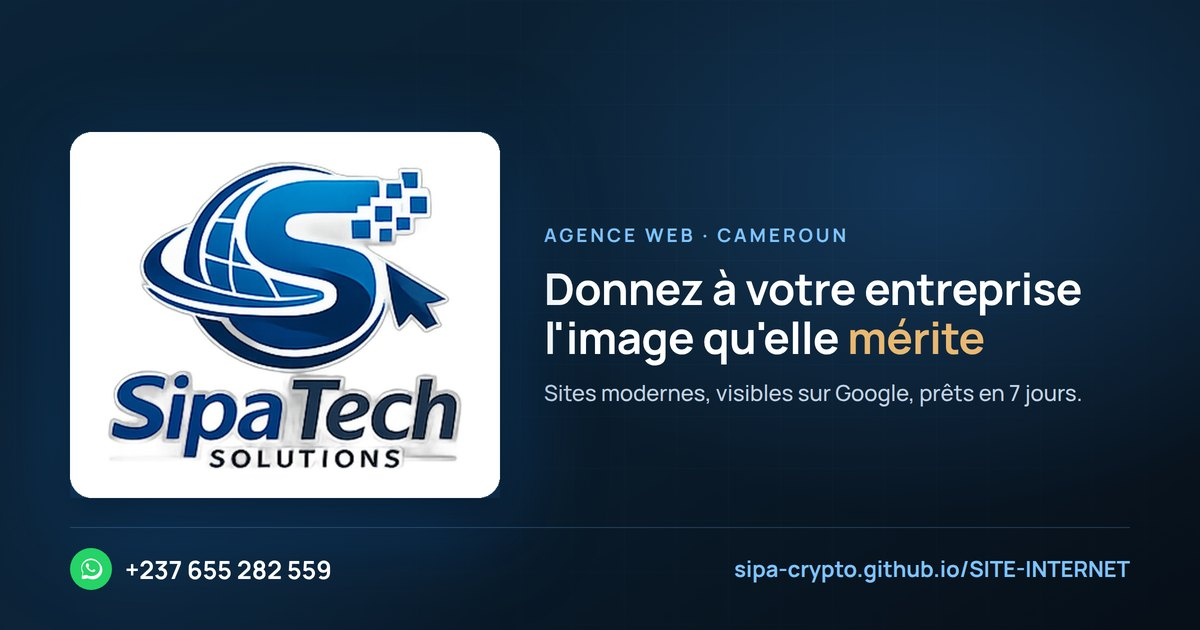
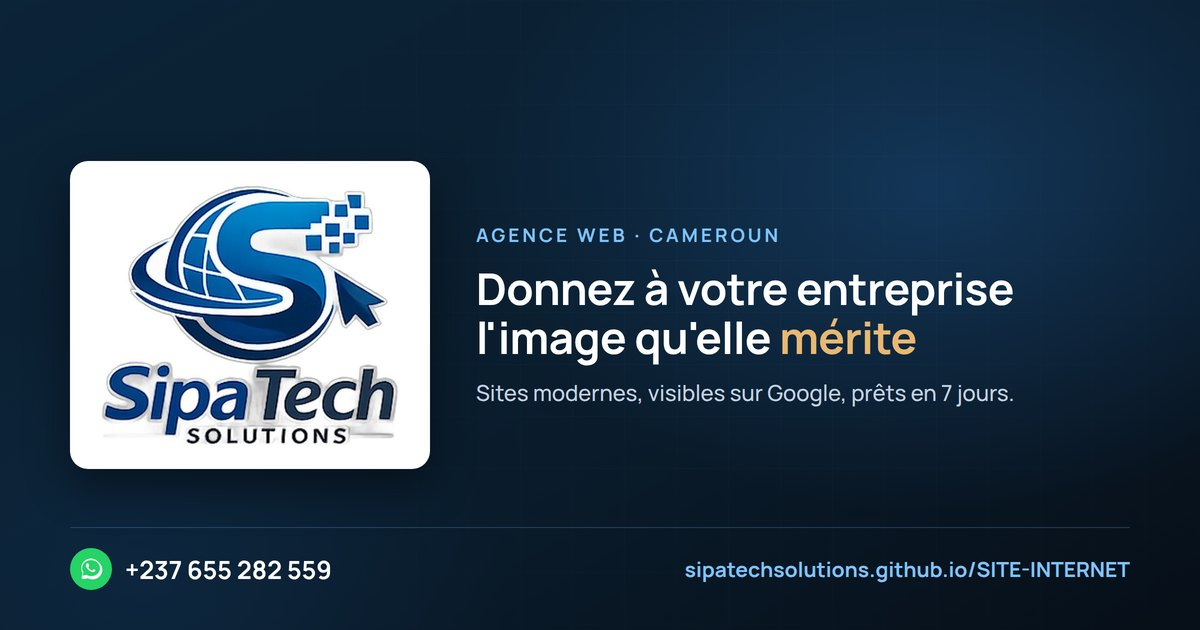
Mise à jour du nom d'utilisateur GitHub (sipa-crypto -> sipatechsolutions) : URLs SEO/partage et image de partage

Changed region(s): [[0.0308, 0.2111, 0.925, 0.8143], [0.555, 0.8746, 0.9558, 0.9349]]

diff --git a/index.html b/index.html
@@ -9,16 +9,16 @@
   <meta name="robots" content="index, follow" />
   <meta name="author" content="SIPA Tech Solutions" />
   <meta name="keywords" content="création site internet Cameroun, agence web Cameroun, site vitrine, e-commerce, développement web, SIPA Tech Solutions, Douala, Yaoundé" />
-  <link rel="canonical" href="https://sipa-crypto.github.io/SITE-INTERNET/" />
+  <link rel="canonical" href="https://sipatechsolutions.github.io/SITE-INTERNET/" />
 
   <!-- Open Graph -->
   <meta property="og:type" content="website" />
-  <meta property="og:url" content="https://sipa-crypto.github.io/SITE-INTERNET/" />
+  <meta property="og:url" content="https://sipatechsolutions.github.io/SITE-INTERNET/" />
   <meta property="og:site_name" content="SIPA Tech Solutions" />
   <meta property="og:locale" content="fr_FR" />
   <meta property="og:title" content="SIPA Tech Solutions — Agence web camerounaise" />
   <meta property="og:description" content="Des sites internet sur-mesure au design haut de gamme pour les entreprises camerounaises et étrangères." />
-  <meta property="og:image" content="https://sipa-crypto.github.io/SITE-INTERNET/assets/og-image.jpg" />
+  <meta property="og:image" content="https://sipatechsolutions.github.io/SITE-INTERNET/assets/og-image.jpg" />
   <meta property="og:image:width" content="1200" />
   <meta property="og:image:height" content="630" />
   <meta property="og:image:alt" content="SIPA Tech Solutions — Donnez à votre entreprise l'image qu'elle mérite" />
@@ -27,7 +27,7 @@
   <meta name="twitter:card" content="summary_large_image" />
   <meta name="twitter:title" content="SIPA Tech Solutions — Agence web camerounaise" />
   <meta name="twitter:description" content="Des sites internet sur-mesure au design haut de gamme pour les entreprises camerounaises et étrangères." />
-  <meta name="twitter:image" content="https://sipa-crypto.github.io/SITE-INTERNET/assets/og-image.jpg" />
+  <meta name="twitter:image" content="https://sipatechsolutions.github.io/SITE-INTERNET/assets/og-image.jpg" />
 
   <link rel="icon" type="image/png" href="assets/favicon.png" />
   <link rel="apple-touch-icon" href="assets/favicon.png" />
@@ -43,9 +43,9 @@
     "@type": "ProfessionalService",
     "name": "SIPA Tech Solutions",
     "description": "Agence camerounaise de création de sites internet sur-mesure : sites vitrines, e-commerce et applications web au design haut de gamme.",
-    "url": "https://sipa-crypto.github.io/SITE-INTERNET/",
-    "image": "https://sipa-crypto.github.io/SITE-INTERNET/assets/og-image.jpg",
-    "logo": "https://sipa-crypto.github.io/SITE-INTERNET/assets/logo-panel.jpg",
+    "url": "https://sipatechsolutions.github.io/SITE-INTERNET/",
+    "image": "https://sipatechsolutions.github.io/SITE-INTERNET/assets/og-image.jpg",
+    "logo": "https://sipatechsolutions.github.io/SITE-INTERNET/assets/logo-panel.jpg",
     "email": "sipatechsolutions@gmail.com",
     "telephone": "+237655282559",
     "areaServed": "Cameroun et international",
